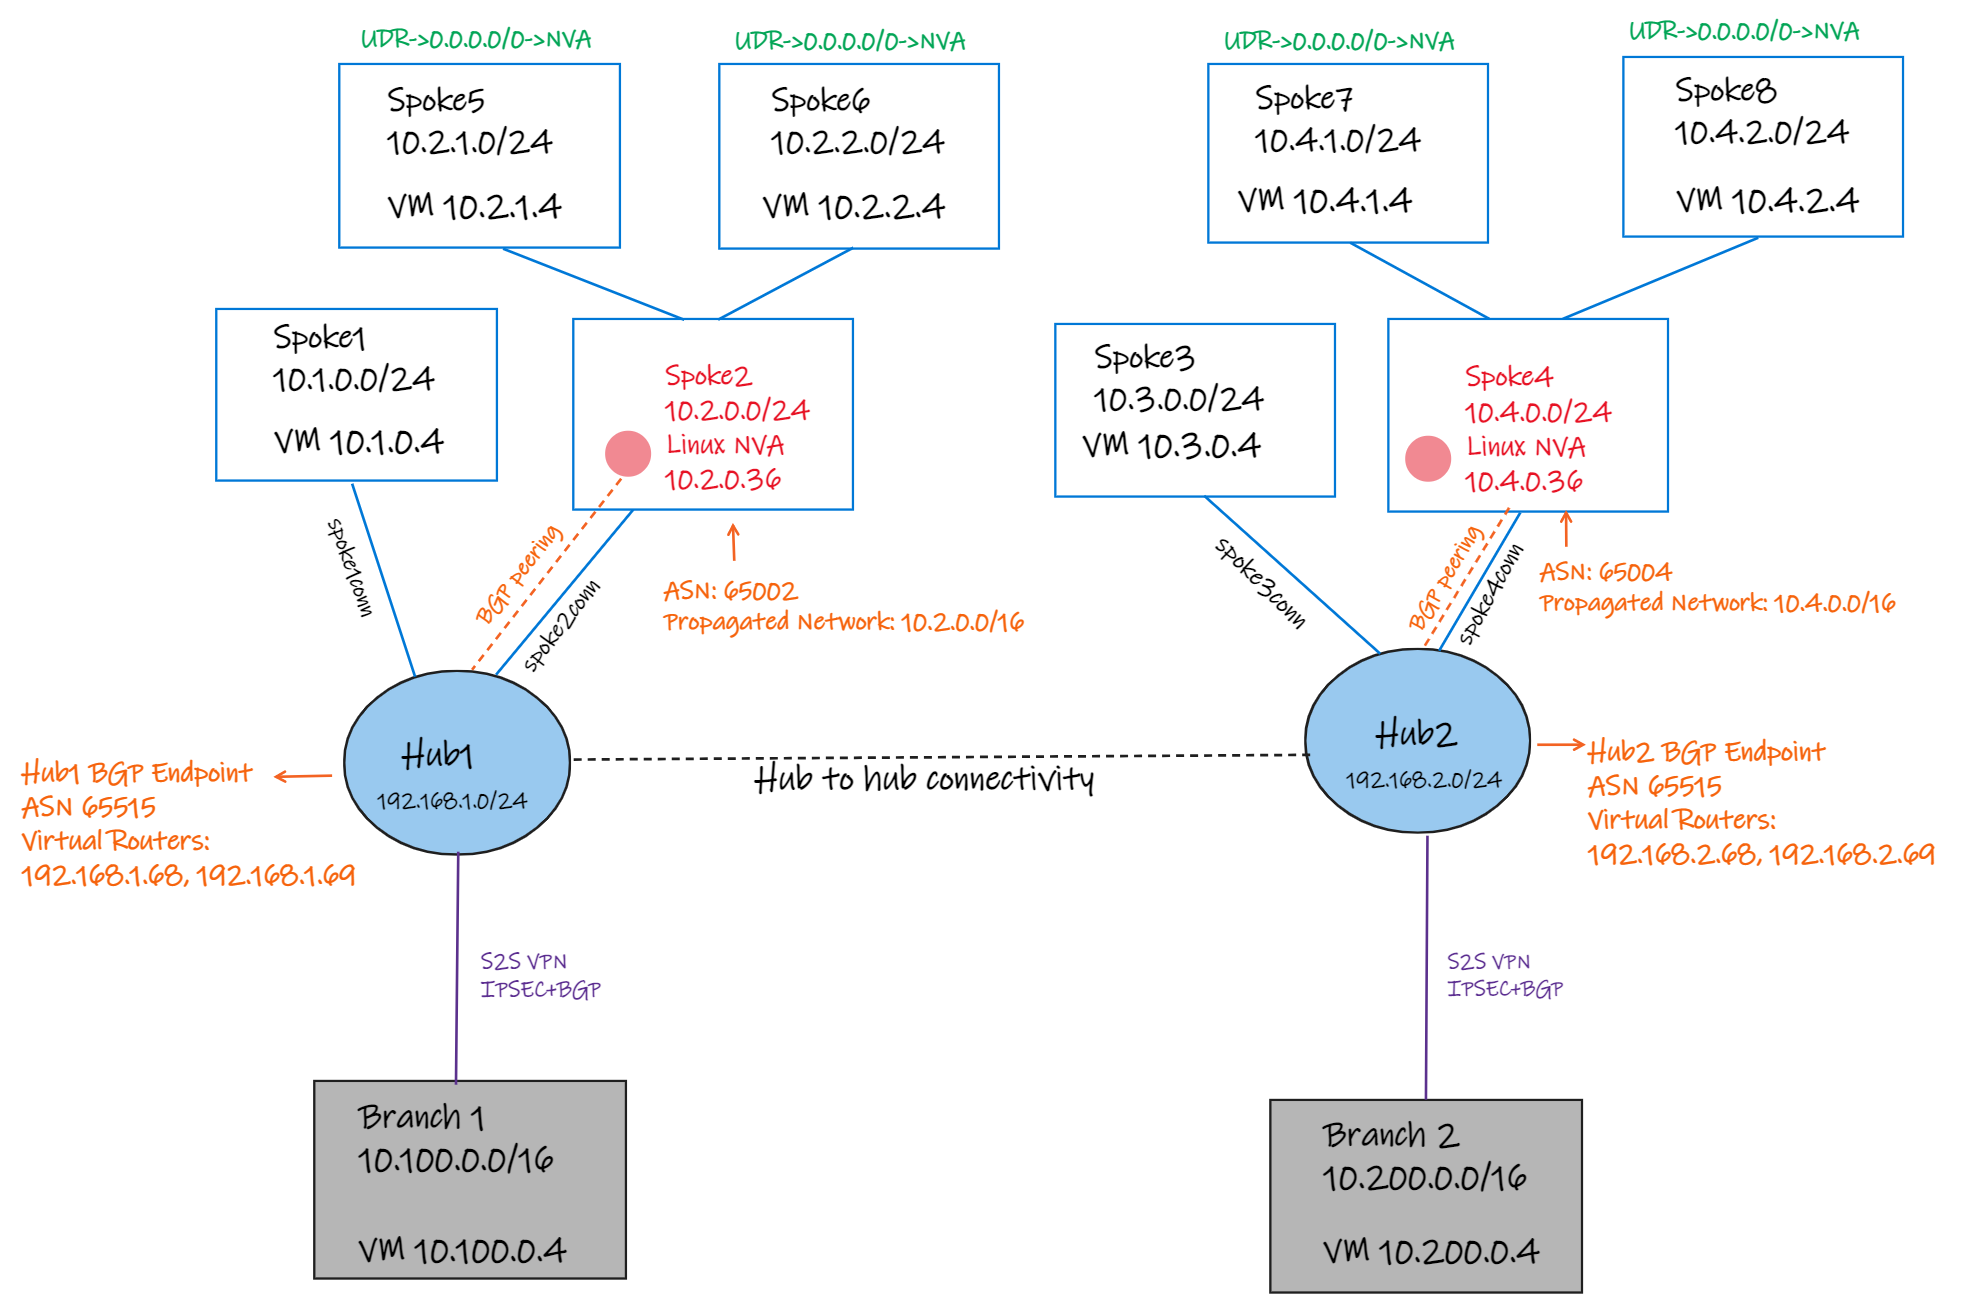
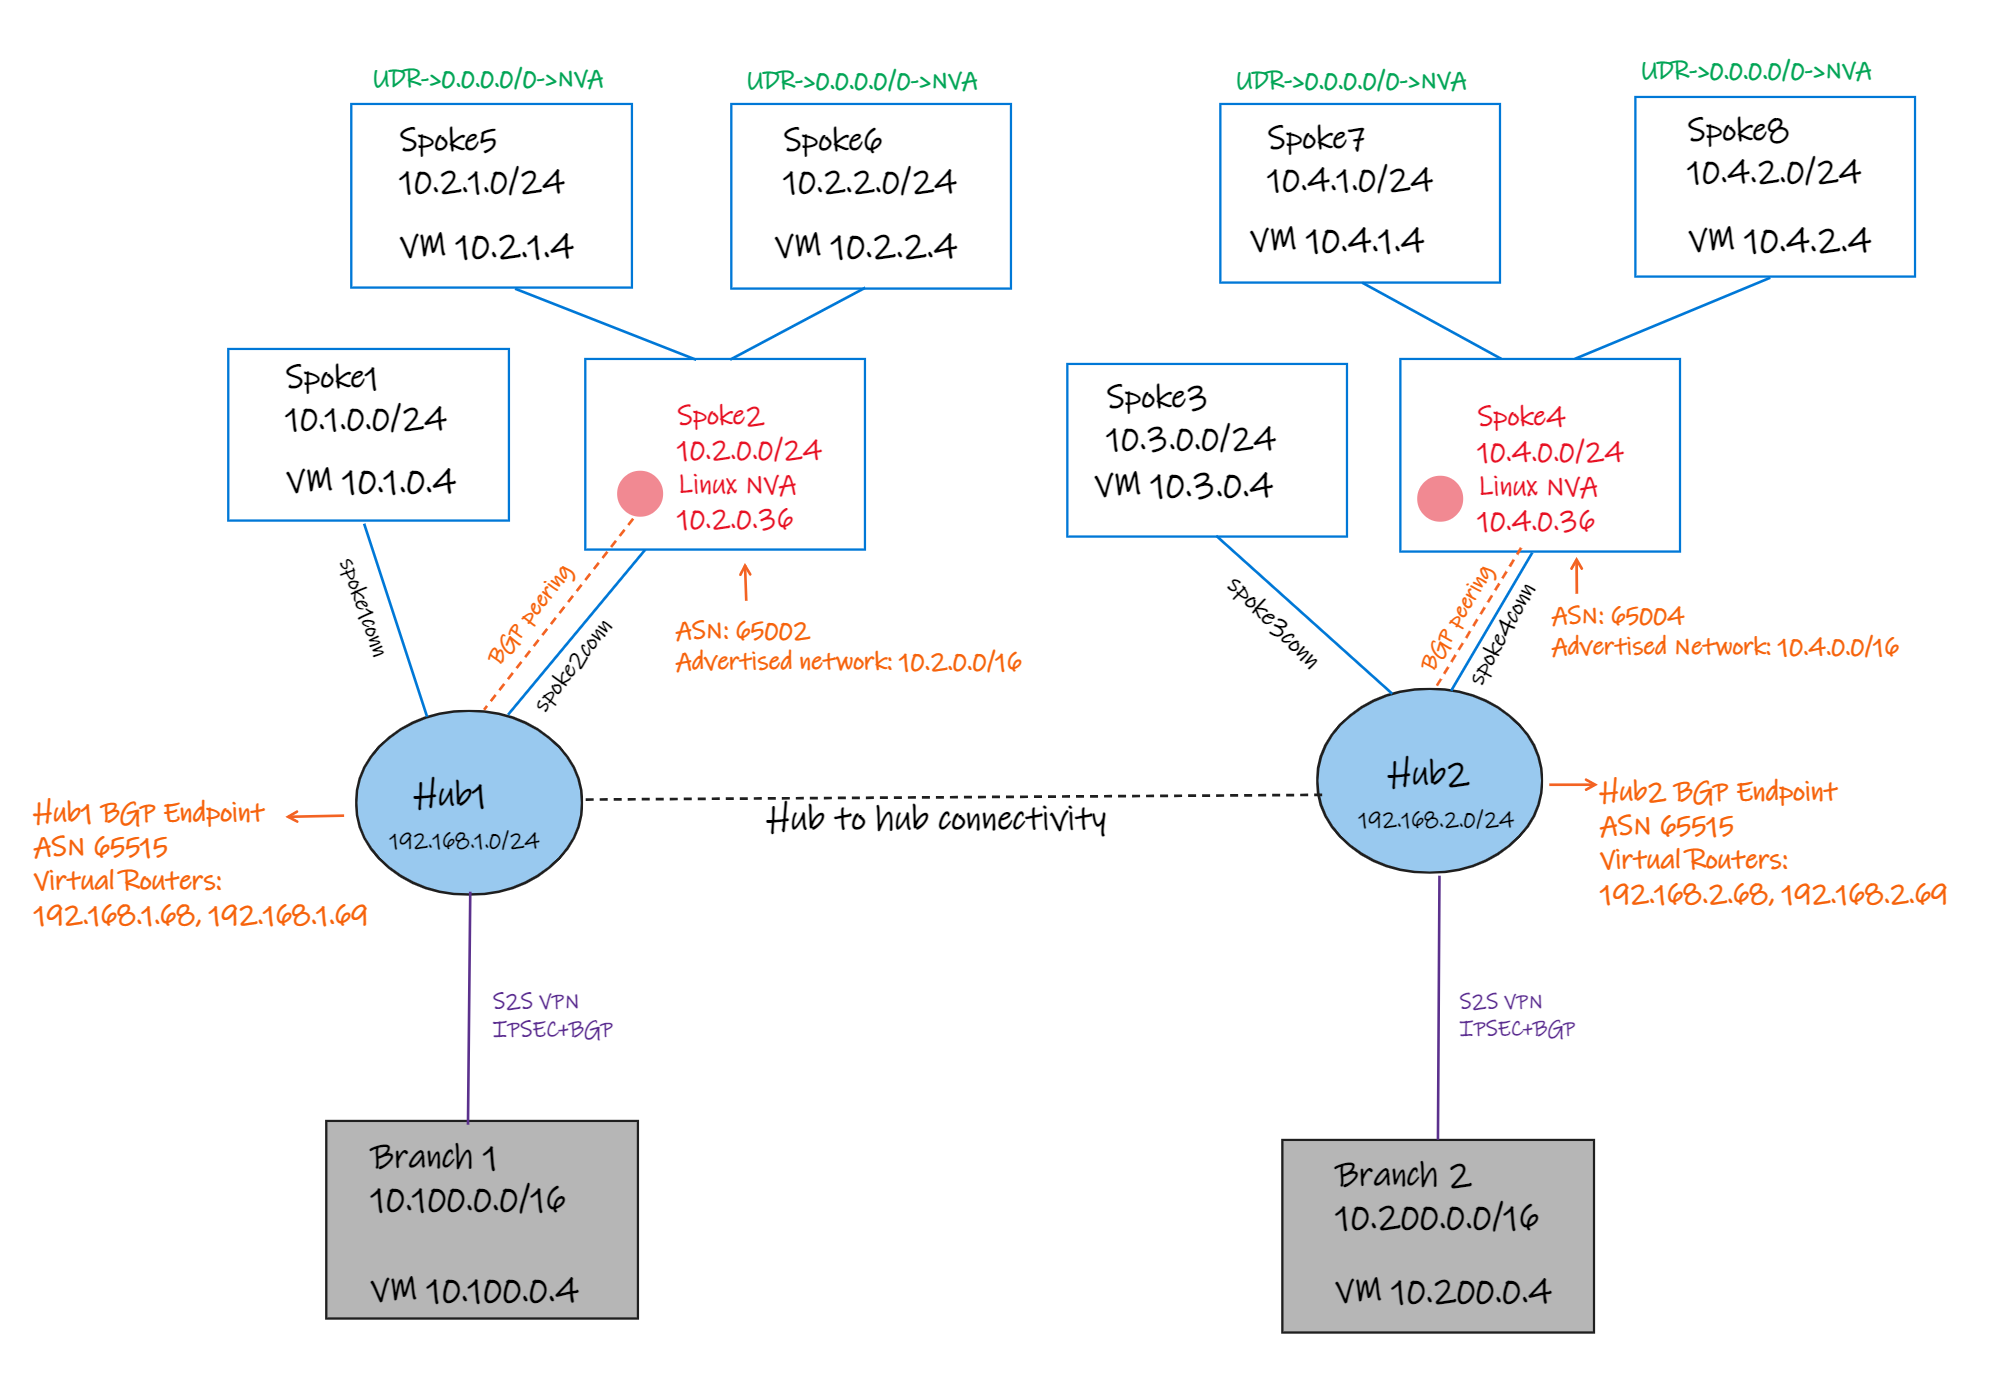
updated diagram

diff --git a/inter-region-nvabgp/README.md b/inter-region-nvabgp/README.md
@@ -22,7 +22,7 @@ The lab uses the same amount of VNETs (eight total) and two regions with Hubs, a
     - For connectivity tests, you can use curl <"Destnation IP"> and the output should be the VM name.
     - All VMs have default username azureuser and password Msft123Msft123 (you can change it under parameters section).
 - There's UDRs associated to the indirect spoke VNETs 5, 6, 7, 8 with default route 0/0 to their respective Transit NVA spoke.
-- Virtual WAN hubs have BGP peerings to their respective Linux NVA spokes. Those NVAs propagate 10.2.0.0/16 (Spoke2 Linux NVA) and 10.4.0.0/16 (Spoke 4 Linux NVA)
+- Virtual WAN hubs have BGP peerings to their respective Linux NVA spokes. Each NVA advertise networks 10.2.0.0/16 (Spoke2 Linux NVA) and 10.4.0.0/16 (Spoke 4 Linux NVA).
 - Each Linux NVA a single interface with IP forwarding enabled, BGP (Quagga) and NAT is configured for Internet breakout.
     - Linux NVA default username is azureuser and password is Msft123Msft123.
 - There are two Branches locations (Branch1 - 10.100.0.0/16 and Branch2 - 10.200.0.0/16) each one connected to their respective vHUBs using S2S IPSec VPN + BGP (Branch 1 using ASN 65010 and Branch 2 using ASN 65009).
